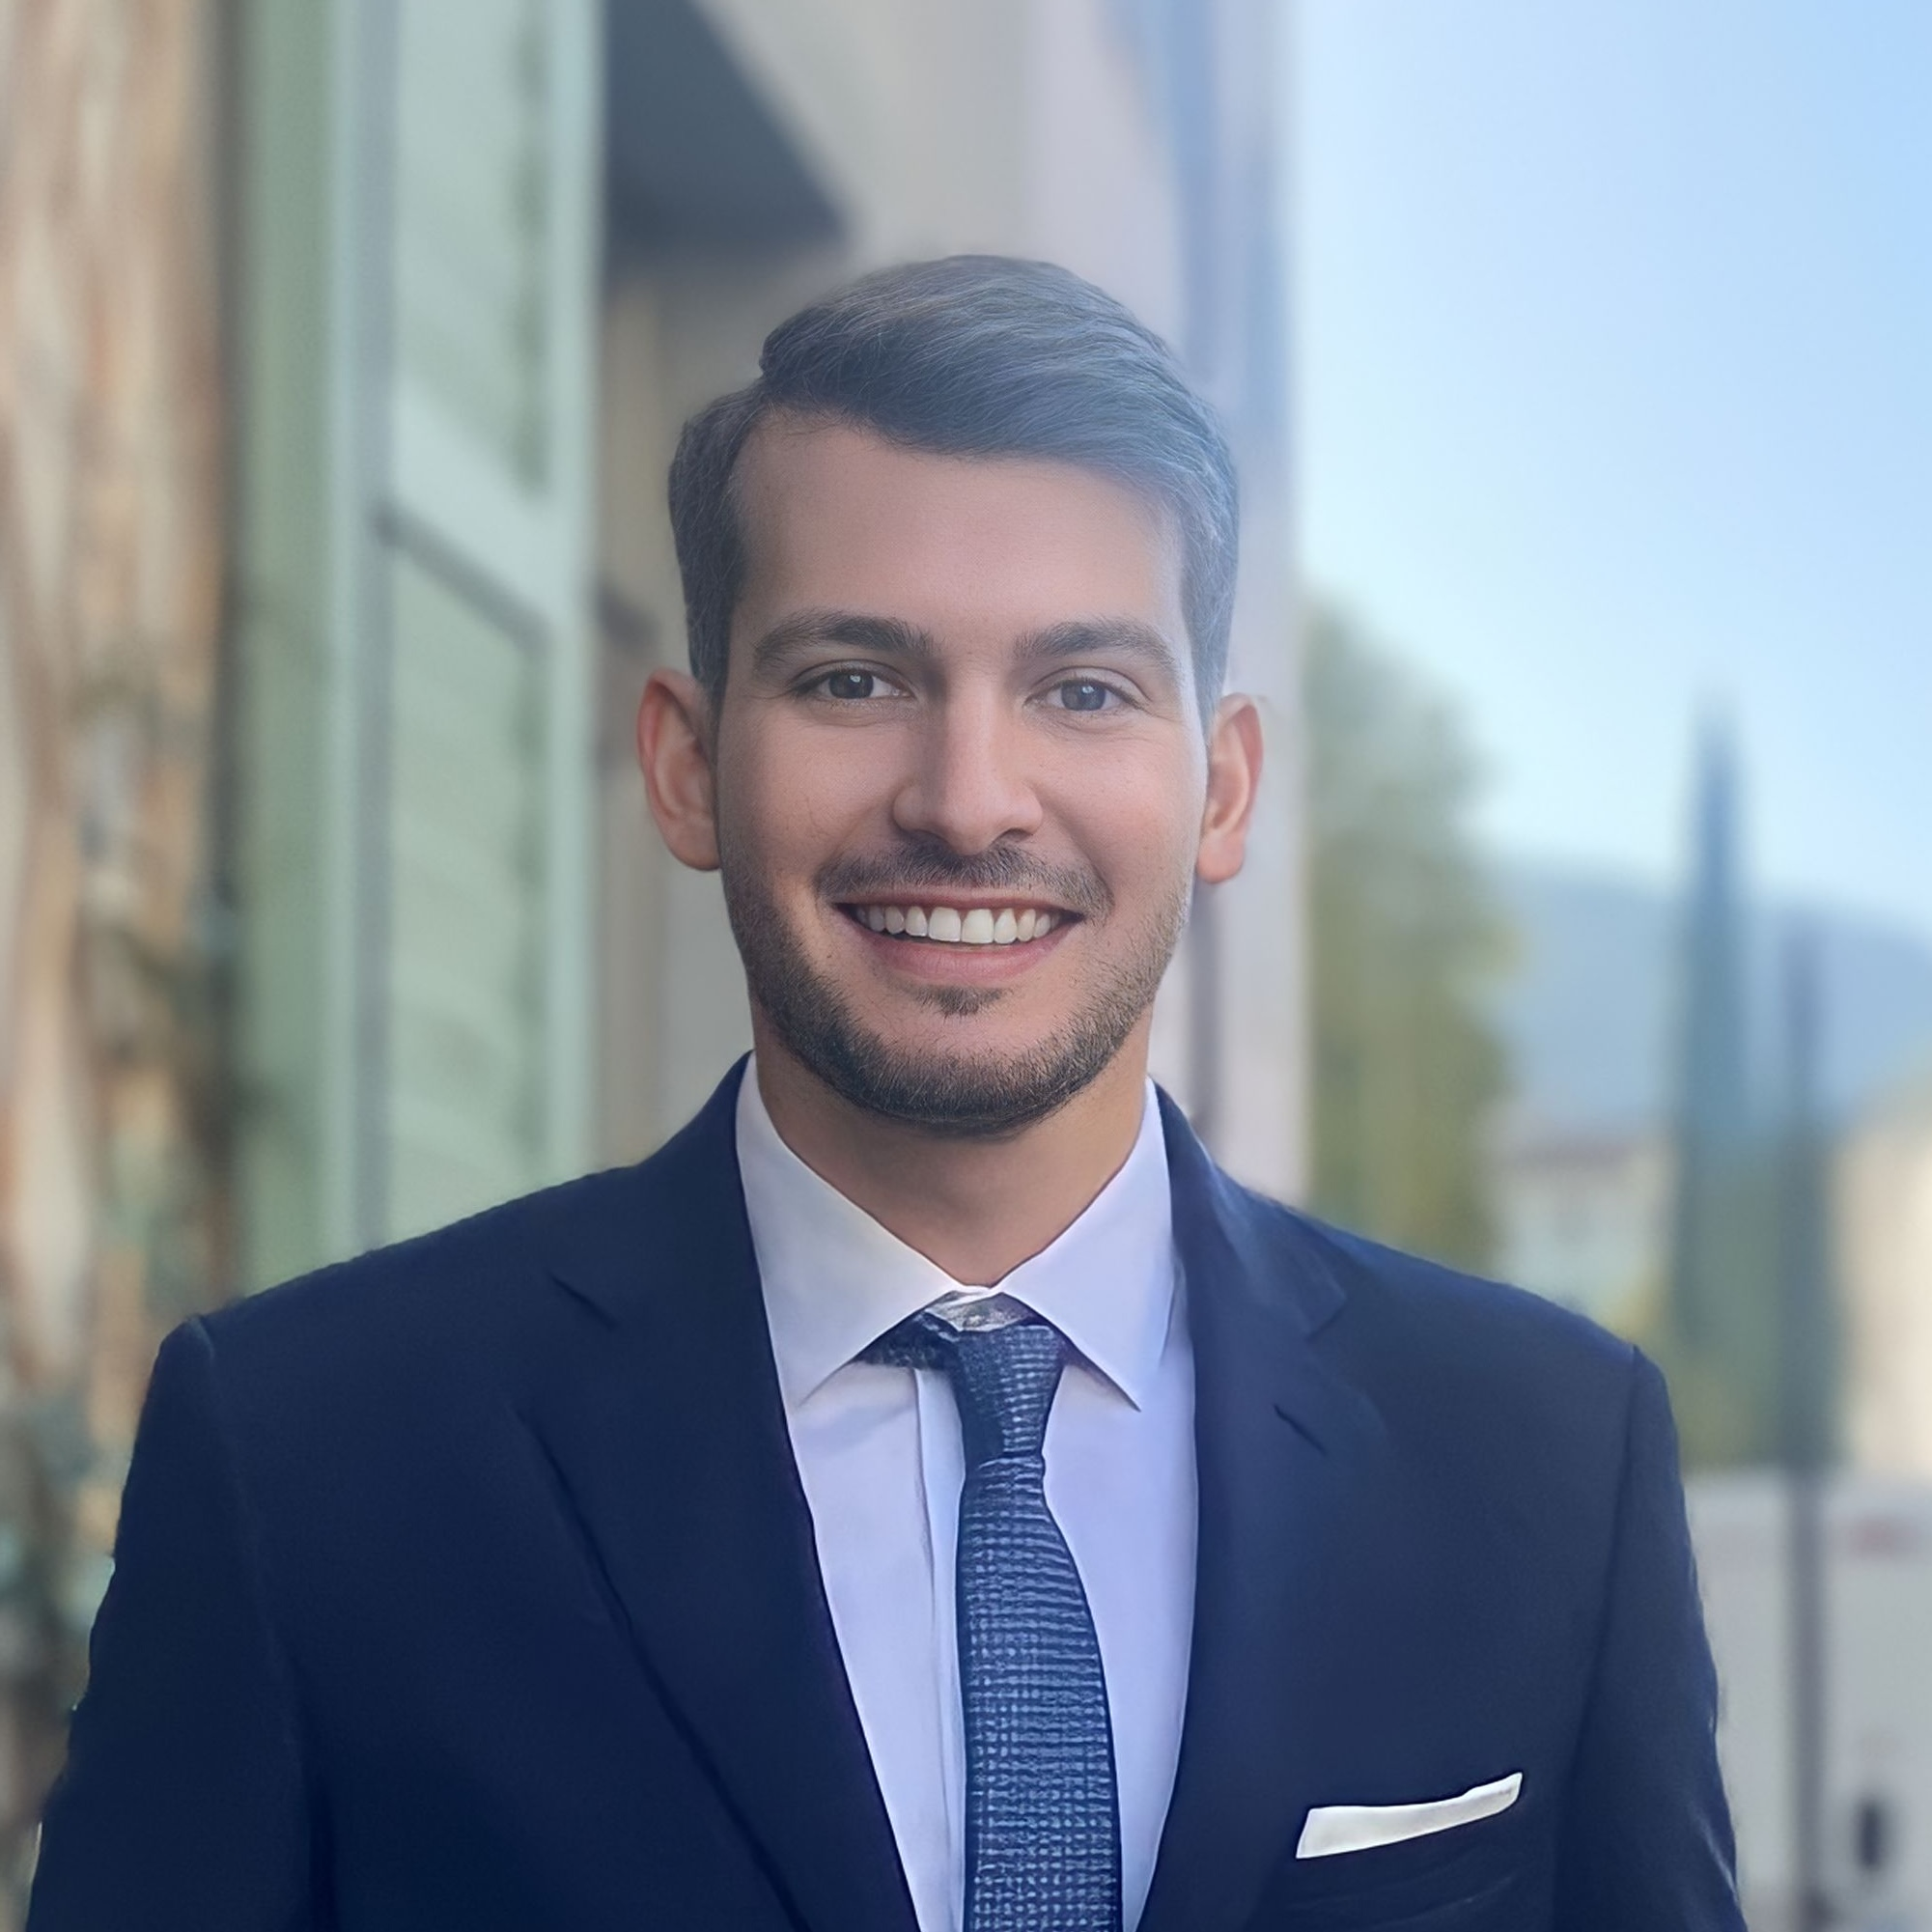
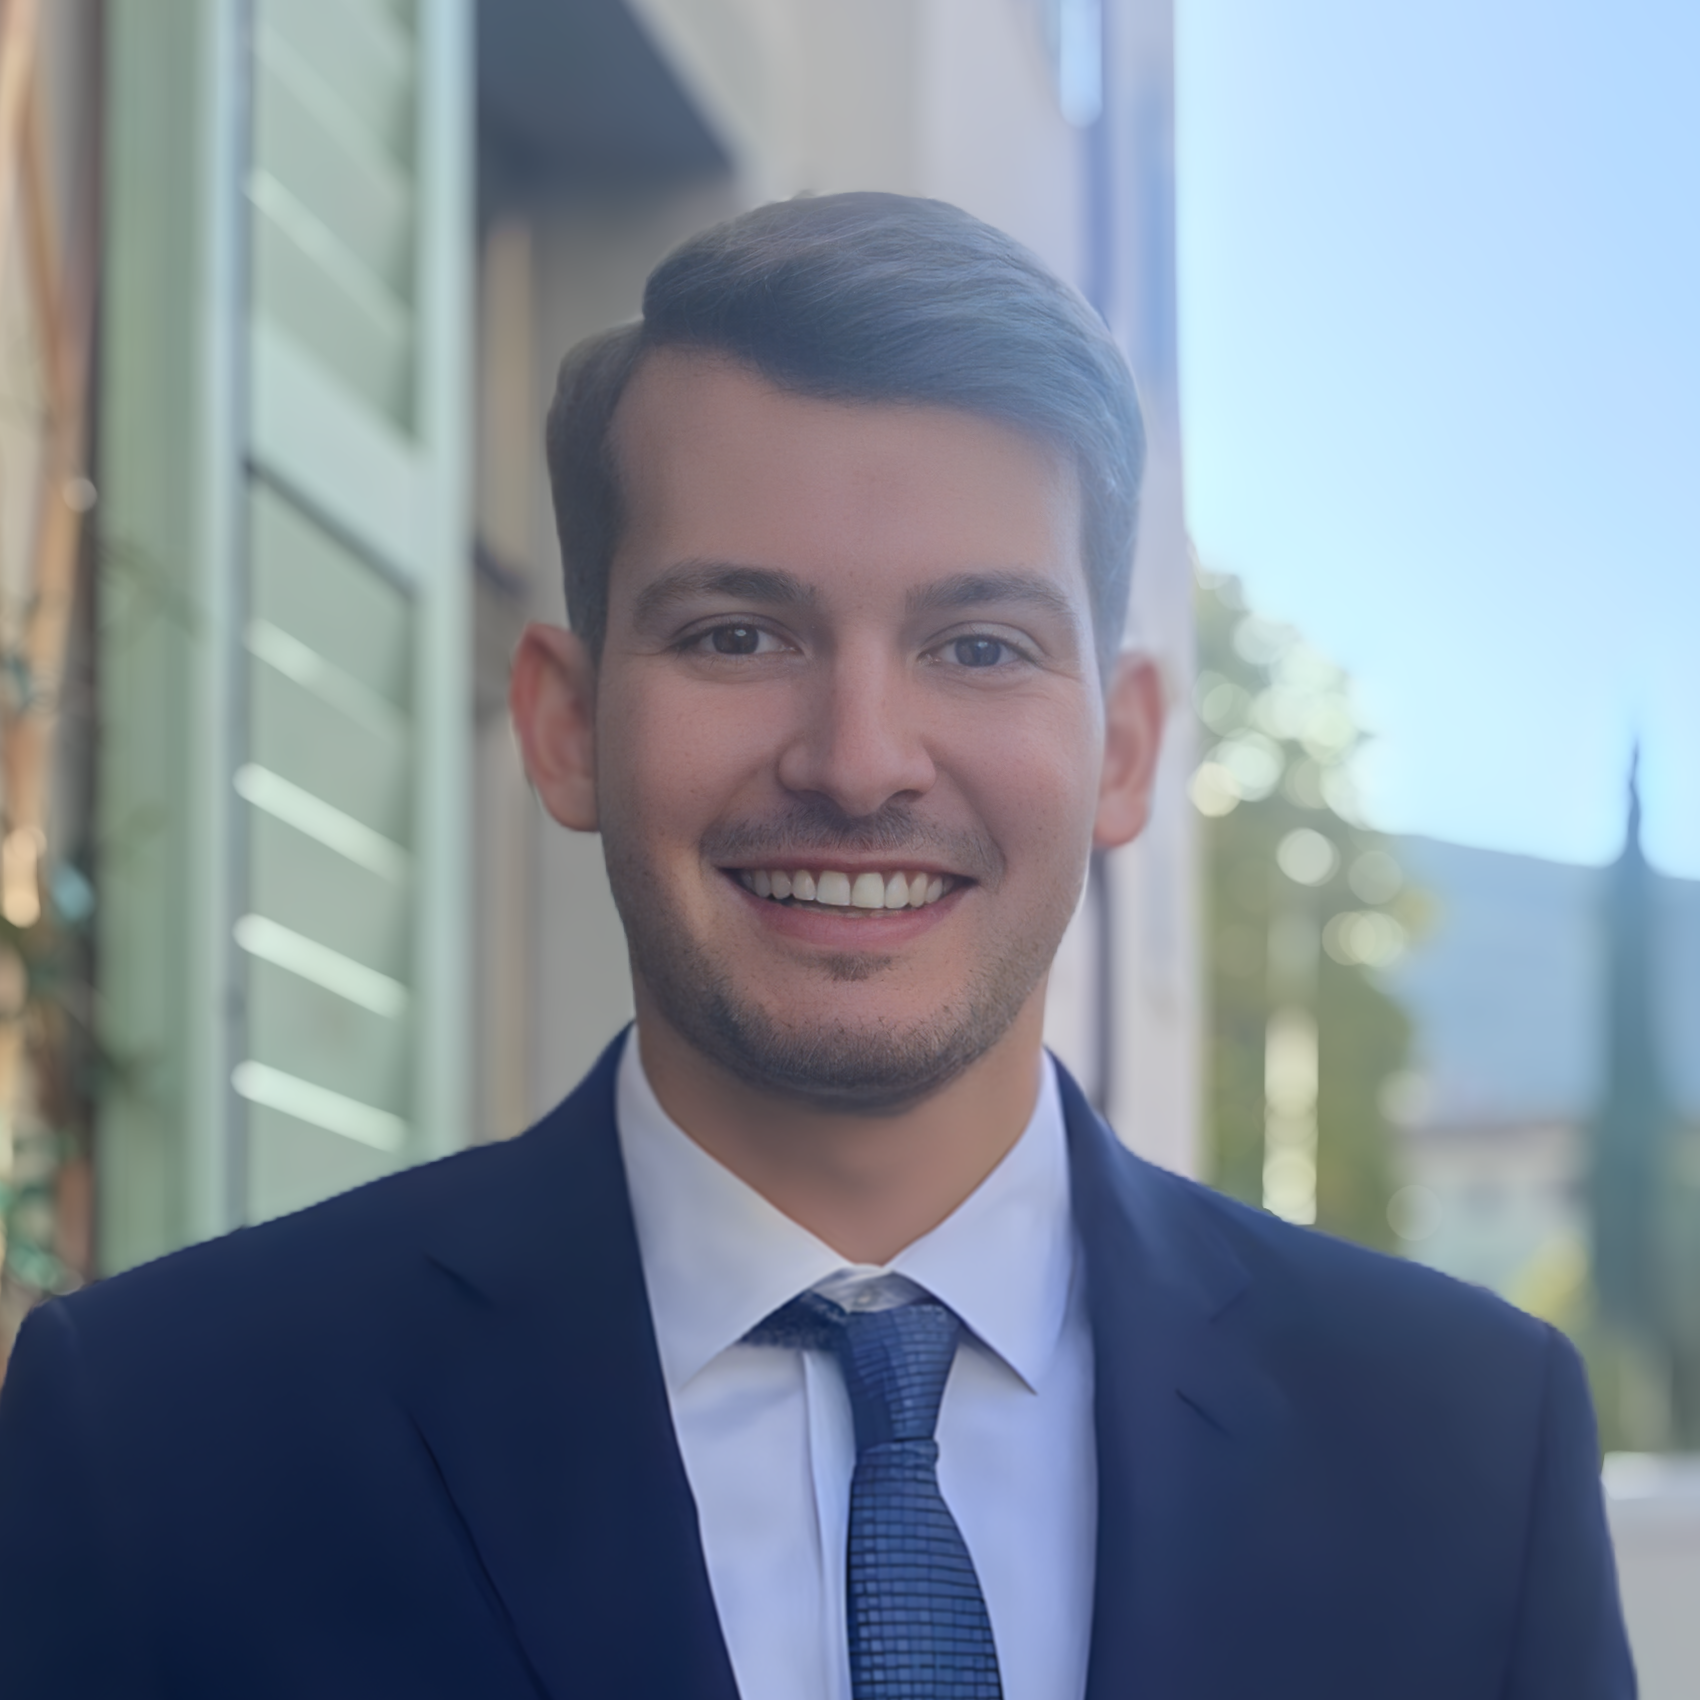
Update

diff --git a/index.html b/index.html
@@ -153,7 +153,7 @@
 <div class="introduction row w-100 text-justify">
     <div class="col w-100">
         <p>Ciao, I&rsquo;m Leonardo! I&rsquo;m a PhD student in Information Engineering and Computer Science at <a href="https://www.disi.unitn.it">University of Trento</a>, supervised by Prof.
-<a href="https://disi.unitn.it/~bernardi/">Raffaella Bernardi</a>.
+<a href="https://disi.unitn.it/~bernardi/">Raffaella Bernardi</a> and co-supervised by Prof. <a href="https://bplank.github.io/">Barbara Plank</a>.
 My research focuses on the reasoning capabilities of Large Language Models (LLMs) at the intersection of AI and cognitive science.</p>
 <p>More specifically, I’m passionate about exploring questions such as:</p>
 <ol>
@@ -231,6 +231,27 @@ My research focuses on the reasoning capabilities of Large Language Models (LLMs
         <ul class="news_list">
             
             
+            
+            
+
+            <li>
+                
+                <i data-feather="award"></i>
+                
+
+                
+                New Paper Accepted at EACL &lsquo;26!
+                
+
+                
+                <span class="secondary_font text-muted">, Jan. 2026. Our paper <a href="https://arxiv.org/abs/2505.14313">Teaching Small Language Models to Learn Logic through Meta-Learning</a>. has been accepted at EACL &lsquo;26.</span>
+                
+
+            </li>
+            
+            
+            
+            
 
             <li>
                 
@@ -242,7 +263,7 @@ My research focuses on the reasoning capabilities of Large Language Models (LLMs
                 
 
                 
-                <span class="secondary_font text-muted">, October. 2025. Our new preprint is now available: <a href="https://arxiv.org/abs/2510.06700">How Language Models Conflate Logical Validity with Plausibility: A Representational Analysis of Content Effects</a>.</span>
+                <span class="secondary_font text-muted">, Oct. 2025. Our new preprint is now available: <a href="https://arxiv.org/abs/2510.06700">How Language Models Conflate Logical Validity with Plausibility: A Representational Analysis of Content Effects</a>.</span>
                 
 
             </li>
@@ -304,25 +325,6 @@ My research focuses on the reasoning capabilities of Large Language Models (LLMs
 
             </li>
             
-            
-            
-            
-
-            <li>
-                
-                <i data-feather="award"></i>
-                
-
-                
-                New Paper Accepted at ACL &lsquo;25!
-                
-
-                
-                <span class="secondary_font text-muted">, May. 2025. Our paper <a href="https://aclanthology.org/2025.acl-short.20/">LLMs instead of Human Judges? A Large Scale Empirical Study across 20 NLP Evaluation Tasks</a> has been accepted at ACL &lsquo;25!</span>
-                
-
-            </li>
-            
         </ul>
     </div>
 </div></div>
@@ -374,89 +376,15 @@ My research focuses on the reasoning capabilities of Large Language Models (LLMs
 
             <div class="section-1 w-100">
                 <span>
-                    How Language Models Conflate Logical Validity with Plausibility: A Representational Analysis of Content Effects,
-                </span>
-
-                <span class="text-muted publication-date">
-                    2025,
-                </span>
-
-                <span class="text-muted publication-name">
-                    arXiv preprint
-                </span>
-
-            </div>
-
-            <div class="section-2 text-muted w-100">
-
-                
-
-                
-                
-                <span>
-                    Leonardo Bertolazzi
-                </span>
-                
-                <span class="separator">
-                    ,
-                </span>
-                
-                
-                <span>
-                    Sandro Pezzelle
-                </span>
-                
-                <span class="separator">
-                    ,
-                </span>
-                
-                
-                <span>
-                    Raffaella Bernardi
-                </span>
-                
-                
-                
-
-            </div>
-
-            
-            
-            <div class="section-3  w-100">
-                
-                    
-                <a class="main_color text-decoration-none rounded" href="https://github.com/leobertolazzi/content-effect-interpretability.git" target="_blank">
-                    code
-                </a>
-                    
-                
-                    
-                <a class="main_color text-decoration-none rounded" href="https://arxiv.org/abs/2510.06700" target="_blank">
-                    pdf
-                </a>
-                    
-                
-            </div>
-            
-
-
-
-        </div>
-
-        
-        <div class="publication row  w-100">
-
-            <div class="section-1 w-100">
-                <span>
                     Teaching Small Language Models to Learn Logic through Meta-Learning,
                 </span>
 
                 <span class="text-muted publication-date">
-                    2025,
+                    2026,
                 </span>
 
                 <span class="text-muted publication-name">
-                    arXiv preprint
+                    Proceedings of the 19th Conference of the European Chapter of the Association for Computational Linguistics
                 </span>
 
             </div>
@@ -524,6 +452,80 @@ My research focuses on the reasoning capabilities of Large Language Models (LLMs
                 
                     
                 <a class="main_color text-decoration-none rounded" href="https://arxiv.org/abs/2505.14313" target="_blank">
+                    pdf
+                </a>
+                    
+                
+            </div>
+            
+
+
+
+        </div>
+
+        
+        <div class="publication row  w-100">
+
+            <div class="section-1 w-100">
+                <span>
+                    How Language Models Conflate Logical Validity with Plausibility: A Representational Analysis of Content Effects,
+                </span>
+
+                <span class="text-muted publication-date">
+                    2025,
+                </span>
+
+                <span class="text-muted publication-name">
+                    arXiv preprint
+                </span>
+
+            </div>
+
+            <div class="section-2 text-muted w-100">
+
+                
+
+                
+                
+                <span>
+                    Leonardo Bertolazzi
+                </span>
+                
+                <span class="separator">
+                    ,
+                </span>
+                
+                
+                <span>
+                    Sandro Pezzelle
+                </span>
+                
+                <span class="separator">
+                    ,
+                </span>
+                
+                
+                <span>
+                    Raffaella Bernardi
+                </span>
+                
+                
+                
+
+            </div>
+
+            
+            
+            <div class="section-3  w-100">
+                
+                    
+                <a class="main_color text-decoration-none rounded" href="https://github.com/leobertolazzi/content-effect-interpretability.git" target="_blank">
+                    code
+                </a>
+                    
+                
+                    
+                <a class="main_color text-decoration-none rounded" href="https://arxiv.org/abs/2510.06700" target="_blank">
                     pdf
                 </a>
                     
@@ -1017,7 +1019,7 @@ My research focuses on the reasoning capabilities of Large Language Models (LLMs
 
 
 <footer class="mt-auto d-flex justify-content-center text-muted small secondary_font">
-    <span class="text-muted">Copyright (c) 2025, Leonardo Bertolazzi,
+    <span class="text-muted">Copyright (c) 2026, Leonardo Bertolazzi,
         <a class="text-muted" href="https://github.com/hadisinaee/avicenna" target="_blank"> created by Avicenna
             (MIT)</a>
     </span>

diff --git a/categories/index.html b/categories/index.html
@@ -62,7 +62,7 @@
 
 
 <footer class="mt-auto d-flex justify-content-center text-muted small secondary_font">
-    <span class="text-muted">Copyright (c) 2025, Leonardo Bertolazzi,
+    <span class="text-muted">Copyright (c) 2026, Leonardo Bertolazzi,
         <a class="text-muted" href="https://github.com/hadisinaee/avicenna" target="_blank"> created by Avicenna
             (MIT)</a>
     </span>

diff --git a/tags/index.html b/tags/index.html
@@ -61,7 +61,7 @@
 
 
 <footer class="mt-auto d-flex justify-content-center text-muted small secondary_font">
-    <span class="text-muted">Copyright (c) 2025, Leonardo Bertolazzi,
+    <span class="text-muted">Copyright (c) 2026, Leonardo Bertolazzi,
         <a class="text-muted" href="https://github.com/hadisinaee/avicenna" target="_blank"> created by Avicenna
             (MIT)</a>
     </span>